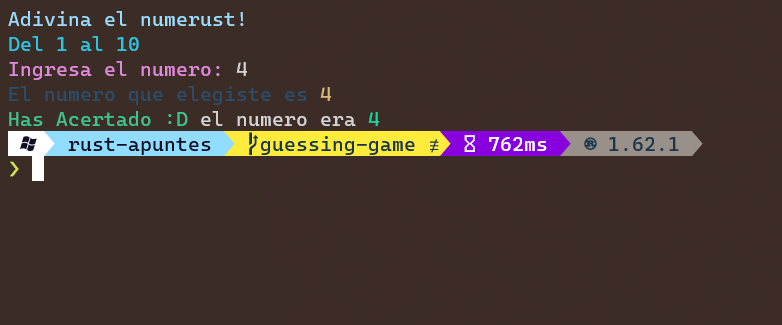
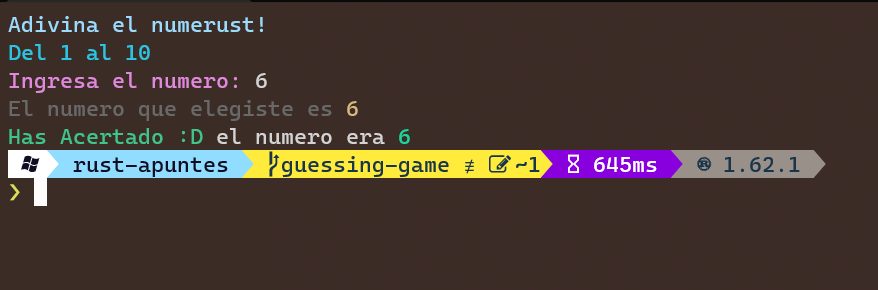
imagen cambiada & dimmed mejorado

Changed region(s): [[0.0, 0.3414, 0.9514, 0.7138], [0.0, 0.0, 1.0, 0.3103]]

diff --git a/src/main.rs b/src/main.rs
@@ -33,7 +33,7 @@ fn main() {
     let num_elegido: u32 = num_elegido.trim().parse().expect("Please type a number!");
     // shadow variable para convertirlo en numero y poder compararlo con el numero secreto
 
-    println!("{} {}", "El numero que elegiste es".blue().dimmed() , num_elegido.yellow() );
+    println!("{} {}", "El numero que elegiste es".dimmed() , num_elegido.yellow() );
 
     match num_elegido.cmp( &secret_number) {
         Ordering::Less => println!("{}, el numero era {}", "Muy bajo".red(), secret_number.bright_red()),

diff --git a/README.md b/README.md
@@ -1,7 +1,9 @@
 # Apuntes de Rust - Guessing game 
 
 
-<img src="./assets/preview-game.png" width="60%"> <img src="./assets/ferris-confused.png" width="25%" alt="ferris-rust-mascot">
+<img src="./assets/preview-game.png"> 
+
+<img src="./assets/ferris-confused.png" width="25%" alt="ferris-rust-mascot">
 
 ## Run game
 
